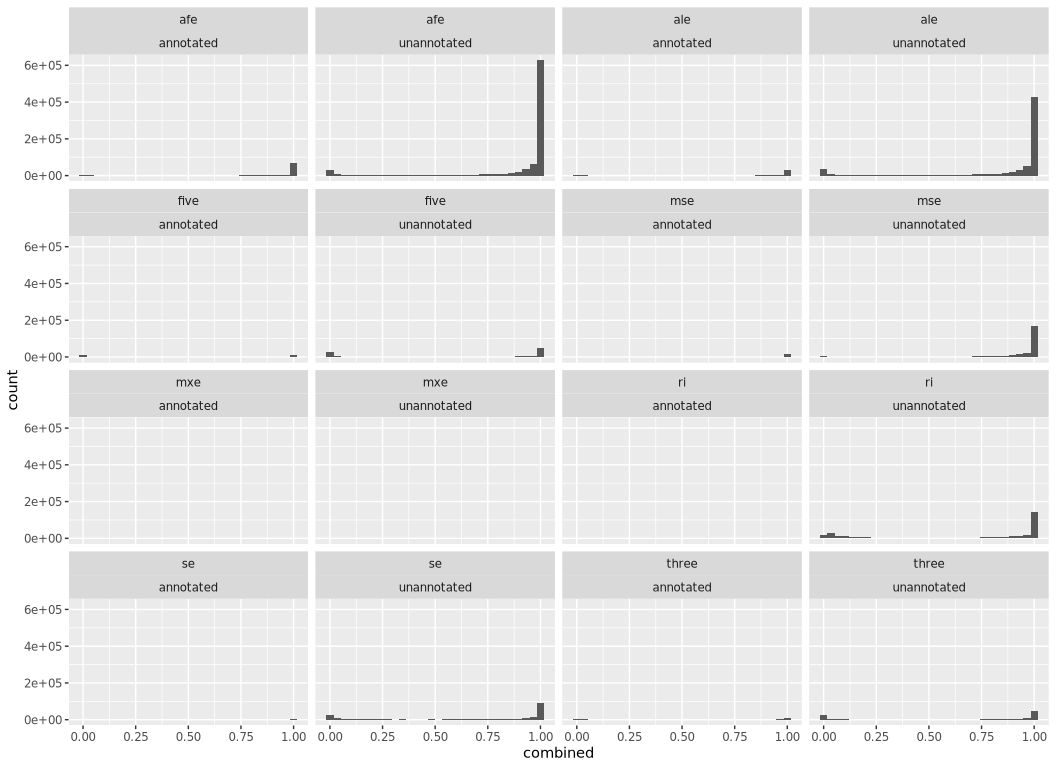
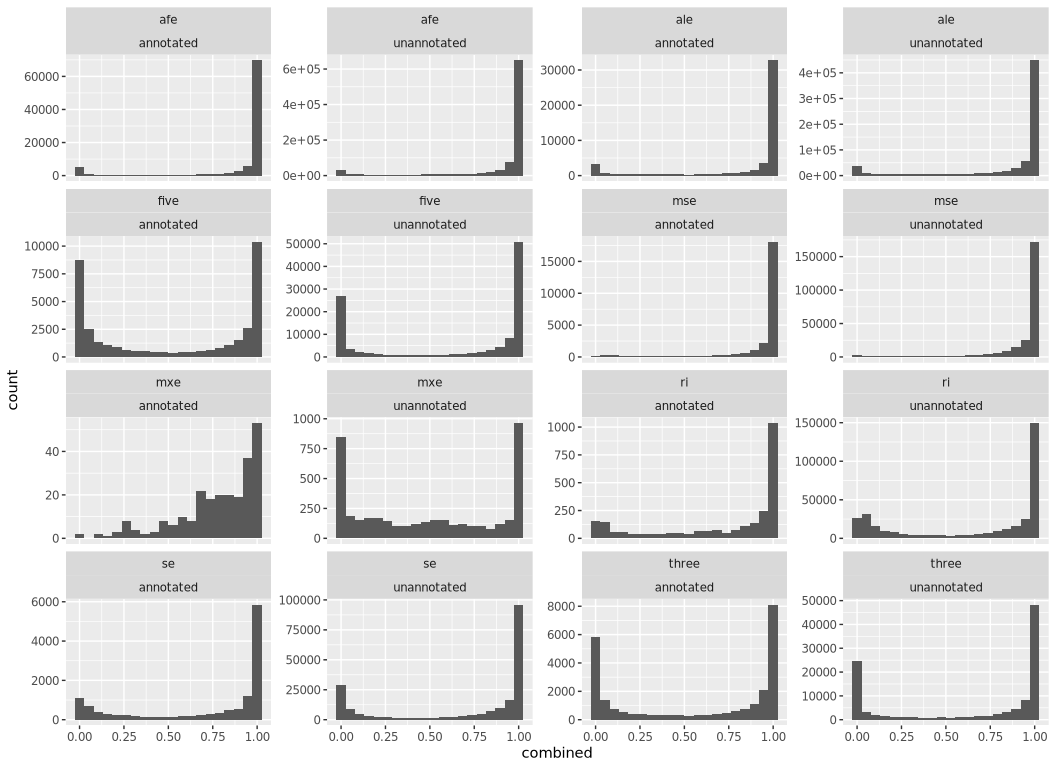
update with plots

diff --git a/exploration/merging-psi-tables/target_pilot/compare_merged_psi_table.md b/exploration/merging-psi-tables/target_pilot/compare_merged_psi_table.md
@@ -1,6 +1,6 @@
 # Compare merged PSI table from TARGET pilot samples
 Cindy Liang (celiang@ucsc.edu)
-2026-04-12
+2026-04-14
 
 As part of our pipeline, we plan to merge Shiba tables created for
 individual samples to obtain a final PSI table of all samples. Before
@@ -70,23 +70,12 @@ Read in files
 
 ``` r
 # read merged splice table from separate runs of Shiba on the TARGET pilot samples
-separate_psi_table <- readr::read_tsv(separate_psi_file) |>
+separate_psi_table <- readr::read_tsv(separate_psi_file, col_types=readr::cols(.default = "c")) |>
   # replace remaining NAs from this table representing dropped genes from one sample with no detected splicing for that gene with -2
   dplyr::mutate(across(contains("_PSI"), \(x) tidyr::replace_na(as.numeric(x), -2)))
-```
 
-    Rows: 818412 Columns: 92
-    ── Column specification ────────────────────────────────────────────────────────
-    Delimiter: "\t"
-    chr  (4): pos_id, gene_id, label, event_type
-    dbl (88): SRR1559043_PSI, SRR1559044_PSI, SRR1559052_PSI, SRR1559054_PSI, SR...
-
-    ℹ Use `spec()` to retrieve the full column specification for this data.
-    ℹ Specify the column types or set `show_col_types = FALSE` to quiet this message.
-
-``` r
 # read in combined splice results to compare against separate results
-combined_splice_results_paths <- shiba_psi_paths |>
+combined_splice_results <- shiba_psi_paths |>
   purrr::map(\(path){
     readr::read_tsv(path, col_types=readr::cols(.default = "c")) |>
       # select for columns that will be used in downstream analysis
@@ -96,7 +85,7 @@ combined_splice_results_paths <- shiba_psi_paths |>
   })
 
 # combine PSI values of samples run together into one dataframe to compare against separate PSI dataframe
-combined_psi_table <- purrr::list_rbind(combined_splice_results_paths, names_to = "event_type")
+combined_psi_table <- purrr::list_rbind(combined_splice_results, names_to = "event_type")
 ```
 
 ### Obtain dimensions of each PSI table
@@ -142,40 +131,60 @@ all_events <- dplyr::full_join(
   )
 ```
 
-Print summary of percentage of each event types found in both methods,
-or in only one
+Print summary of counts across each method, across all event types
+
+``` r
+all_methods_summary <- all_events |> dplyr::summarise(
+    # count number of events in each event type and annotation category
+    shared_count = sum(shared_event),
+    combined_only_count = sum(combined_event) - shared_count,
+    separate_only_count = sum(separate_event) - shared_count
+)
+
+all_methods_summary
+```
+
+| shared_count | combined_only_count | separate_only_count |
+|-------------:|--------------------:|--------------------:|
+|       667022 |               79579 |              151390 |
+
+Print summary of counts and percentages across each method, broken down
+by event type
 
 ``` r
 all_events_summary <- all_events |> dplyr::summarise(
     .by = c(event_type, label),
     # count number of events in each event type and annotation category
-    count = dplyr::n(),
-    shared_percent = sum(shared_event) / count * 100,
-    combined_only_percent = ( sum(combined_event) - sum(shared_event) ) / count * 100,
-    separate_only_percent = ( sum(separate_event) - sum(shared_event) ) / count * 100,
+    total = dplyr::n(),
+    shared_count = sum(shared_event),
+    combined_only_count = sum(combined_event) - shared_count,
+    separate_only_count = sum(separate_event) - shared_count,
+    shared_percent = shared_count / total * 100,
+    combined_only_percent = combined_only_count / total * 100,
+    separate_only_percent = separate_only_count / total * 100,
 )
 
 all_events_summary
 ```
 
-| event_type | label | count | shared_percent | combined_only_percent | separate_only_percent |
-|:---|:---|---:|---:|---:|---:|
-| se | annotated | 104872 | 97.13556 | 1.0050347 | 1.859410 |
-| se | unannotated | 32912 | 65.35914 | 20.4697375 | 14.171123 |
-| afe | unannotated | 97616 | 42.63133 | 22.9767661 | 34.391903 |
-| afe | annotated | 180632 | 85.74339 | 2.0887772 | 12.167833 |
-| ale | annotated | 156353 | 81.48740 | 1.7306991 | 16.781897 |
-| ale | unannotated | 62334 | 35.55042 | 21.6382712 | 42.811307 |
-| five | annotated | 35556 | 85.59737 | 5.3268084 | 9.075824 |
-| five | unannotated | 16825 | 50.06835 | 30.0980684 | 19.833581 |
-| three | annotated | 40691 | 89.44730 | 3.5929321 | 6.959770 |
-| three | unannotated | 17214 | 53.20669 | 28.6220518 | 18.171256 |
-| mse | annotated | 64124 | 96.40540 | 1.0183395 | 2.576258 |
-| mse | unannotated | 19434 | 58.05804 | 26.1397551 | 15.802202 |
-| mxe | annotated | 963 | 82.24299 | 0.7268951 | 17.030114 |
-| mxe | unannotated | 481 | 22.86902 | 24.1164241 | 53.014553 |
-| ri | unannotated | 51635 | 50.57229 | 19.4267454 | 30.000968 |
-| ri | annotated | 16349 | 79.80916 | 0.9664200 | 19.224417 |
+| event_type | label | total | shared_count | combined_only_count | separate_only_count | shared_percent | combined_only_percent | separate_only_percent |
+|:---|:---|---:|---:|---:|---:|---:|---:|---:|
+| se | annotated | 104872 | 101868 | 1054 | 1950 | 97.13556 | 1.0050347 | 1.859410 |
+| se | unannotated | 32912 | 21511 | 6737 | 4664 | 65.35914 | 20.4697375 | 14.171123 |
+| afe | unannotated | 97616 | 41615 | 22429 | 33572 | 42.63133 | 22.9767661 | 34.391903 |
+| afe | annotated | 180632 | 154880 | 3773 | 21979 | 85.74339 | 2.0887772 | 12.167833 |
+| ale | annotated | 156353 | 127408 | 2706 | 26239 | 81.48740 | 1.7306991 | 16.781897 |
+| ale | unannotated | 62334 | 22160 | 13488 | 26686 | 35.55042 | 21.6382712 | 42.811307 |
+| five | annotated | 35556 | 30435 | 1894 | 3227 | 85.59737 | 5.3268084 | 9.075824 |
+| five | unannotated | 16825 | 8424 | 5064 | 3337 | 50.06835 | 30.0980684 | 19.833581 |
+| three | annotated | 40691 | 36397 | 1462 | 2832 | 89.44730 | 3.5929321 | 6.959770 |
+| three | unannotated | 17214 | 9159 | 4927 | 3128 | 53.20669 | 28.6220518 | 18.171256 |
+| mse | annotated | 64124 | 61819 | 653 | 1652 | 96.40540 | 1.0183395 | 2.576258 |
+| mse | unannotated | 19434 | 11283 | 5080 | 3071 | 58.05804 | 26.1397551 | 15.802202 |
+| mxe | annotated | 963 | 792 | 7 | 164 | 82.24299 | 0.7268951 | 17.030114 |
+| mxe | unannotated | 481 | 110 | 116 | 255 | 22.86902 | 24.1164241 | 53.014553 |
+| ri | unannotated | 51635 | 26113 | 10031 | 15491 | 50.57229 | 19.4267454 | 30.000968 |
+| ri | annotated | 16349 | 13048 | 158 | 3143 | 79.80916 | 0.9664200 | 19.224417 |
 
 ### Visualize breakdown of shared events with stacked bar plots
 
@@ -183,11 +192,16 @@ all_events_summary
 # pivot summary plot longer so we can make grouped bar plots of the percentages
 long_all_events_summary <- all_events_summary |>
   tidyr::pivot_longer(
-    cols = c(shared_percent, combined_only_percent, separate_only_percent),
-    names_to = "category",
-    values_to = "percent",
-    # remove percent suffix for display
-    names_pattern = "(.+)_percent"
+    cols = c(
+      shared_count,
+      shared_percent,
+      combined_only_count, 
+      combined_only_percent,
+      separate_only_count,
+      separate_only_percent),
+    # extract percents and counts as separate columns
+    names_to = c("category", ".value"),
+    names_pattern = "(.+)_(percent|count)"
   )
 
 ggplot(long_all_events_summary, aes(fill = category, x = event_type, y = percent)) +
@@ -213,6 +227,32 @@ Figure 1
 
 </div>
 
+Plot raw counts of number of events captured by each method
+
+``` r
+ggplot(long_all_events_summary, aes(fill = category, x = event_type, y = count)) +
+  geom_bar(position = "dodge", stat = "identity") +
+  plot_theme +
+  labs(
+    title = "% of splice events only in combined PSI tables",
+    x = "Annotation status of event",
+    y = "Percentage of events"
+  ) +
+  facet_wrap(vars(label)) +
+  scale_x_discrete(guide = guide_axis(angle = 45)) +
+  plot_theme
+```
+
+<div id="fig-splice_events_breakdown_counts">
+
+<img
+src="compare_merged_psi_table_files/figure-commonmark/fig-splice_events_breakdown_counts-1.png"
+id="fig-splice_events_breakdown_counts" />
+
+Figure 2
+
+</div>
+
 The majority of annotated event types are shared between both tables,
 although there are more splice events unique to the separate table than
 combined table. The capturing of unannotated event types suffers more
@@ -220,32 +260,9 @@ from merging separate PSI tables. In particular, there are more ALE and
 MXE events only found in the separate PSI tables. For other unannotated
 events, there are 10-30% that are only found in the separate PSI.
 
-### Obtain the number of splice events only found in each table
-
-``` r
-# produce dataframe of elements in combined splice results reference dataframe
-combined_only_list <- setdiff(combined_psi_table$pos_id, separate_psi_table$pos_id)
-
-# produce dataframe of elements in merged splice results dataframe but not in the reference df
-separate_only_list <- setdiff(separate_psi_table$pos_id, combined_psi_table$pos_id)
-
-# events only present in separate tables
-# Number of splice events only in separate PSI table
-length(separate_only_list)
-```
-
-    [1] 139412
-
-``` r
-# Number of splice events only in combined PSI table
-length(combined_only_list)
-```
-
-    [1] 72021
-
 ### Check how similar PSI values of shared events are
 
-Pivot longer to create scatter plots
+Pivot longer for correlation calculations
 
 ``` r
 # Pivot all events df longer
@@ -255,17 +272,13 @@ long_all_events <- all_events |>
     names_to = c("sample", "method"),
     values_to = "PSI",
     names_pattern = "(.*)_(combined|separate)"
-  )
-
-# convert negative PSI values to NA so they will be dropped in the correlation calculations
-long_all_events_na <- long_all_events |>
-  dplyr::mutate(
-    PSI = dplyr::na_if(PSI, -1),
-    PSI = dplyr::na_if(PSI, -2)
-      )
+  ) |>
+  # drop NA values
+  dplyr::filter(PSI >= 0)
 
 # pivot wider for correlation calculations
-all_events_by_method <- long_all_events_na |> tidyr:: pivot_wider(
+all_events_by_method <- long_all_events |> 
+  tidyr:: pivot_wider(
     names_from = method,
     values_from = PSI
   )
@@ -279,7 +292,7 @@ correlation_df <- all_events_by_method |>
     .by = event_type,
     # correlation coefficients are overestimated here because we remove incomplete observations
     pearson_r = cor(combined, separate, method = "pearson", use = "complete.obs"),
-    pearson_r2 = pearson_r * pearson_r,
+    pearson_r2 = pearson_r ** 2,
     spearman_rho = cor(combined, separate, method = "spearman", use = "complete.obs")
   )
   
@@ -319,35 +332,26 @@ Examine PSI distributions in combined table of events missed by the
 separate table, and then the reverse (is there a threshold of PSI where
 events become shared?)
 
+note/to do: Plot shared, combined_only, and separate_only PSI values
+together, faceted by event types.
+
 ### Plot PSI distributions of events only found in combined table
 
 ``` r
-# make dataframe of unannotated PSI values of splice events only in the combined dataframe
+# create list of pos_ids only in combined df
+combined_only_list <- setdiff(combined_psi_table$pos_id, separate_psi_table$pos_id)
 
+# make dataframe of unannotated PSI values of splice events only in the combined dataframe
 combined_only_df <- all_events_by_method |>
   dplyr::filter(pos_id %in% combined_only_list) |>
   dplyr::select(-separate) |>
   na.omit()
 
-# check dimensions of each
-dim(combined_only_df)
-```
-
-    [1] 2898101       9
-
-``` r
-length(combined_only_list)
-```
-
-    [1] 72021
-
-``` r
 # plot distributions of unannotated and annotated PSI values only found in the combined table
-ggplot(combined_only_df, aes(combined)) + geom_histogram() +
-  facet_wrap(vars(event_type, label))
+ggplot(combined_only_df, aes(combined)) + 
+  geom_histogram(bins = 20) +
+  facet_wrap(vars(event_type, label), scales = "free_y")
 ```
-
-    `stat_bin()` using `bins = 30`. Pick better value `binwidth`.
 
 <div id="fig-combined_only_psi_dist">
 
@@ -355,34 +359,25 @@ ggplot(combined_only_df, aes(combined)) + geom_histogram() +
 src="compare_merged_psi_table_files/figure-commonmark/fig-combined_only_psi_dist-1.png"
 id="fig-combined_only_psi_dist" />
 
-Figure 2
+Figure 3
 
 </div>
 
 ### Plot PSI distributions of events only found in separate table
 
 ``` r
+# make list of pos_ids only in separate df
+separate_only_list <- setdiff(separate_psi_table$pos_id, combined_psi_table$pos_id)
+
+# make df of splice events only in separate dataframes that have been merged
 separate_only_df <- all_events_by_method |>
   dplyr::filter(pos_id %in% separate_only_list) |>
   dplyr::select(-combined) |>
   na.omit()
 
-# check dimensions of each
-dim(separate_only_df)
-```
-
-    [1] 1357565       9
-
-``` r
-length(separate_only_list)
-```
-
-    [1] 139412
-
-``` r
 # plot distributions of unannotated and annotated PSI values only found in the combined table
 ggplot(separate_only_df, aes(separate)) + geom_histogram() +
-  facet_wrap(vars(event_type, label))
+  facet_wrap(vars(event_type, label), scales = "free_y")
 ```
 
     `stat_bin()` using `bins = 30`. Pick better value `binwidth`.
@@ -393,7 +388,7 @@ ggplot(separate_only_df, aes(separate)) + geom_histogram() +
 src="compare_merged_psi_table_files/figure-commonmark/fig-separate_only_psi_dist-1.png"
 id="fig-separate_only_psi_dist" />
 
-Figure 3
+Figure 4
 
 </div>
 
